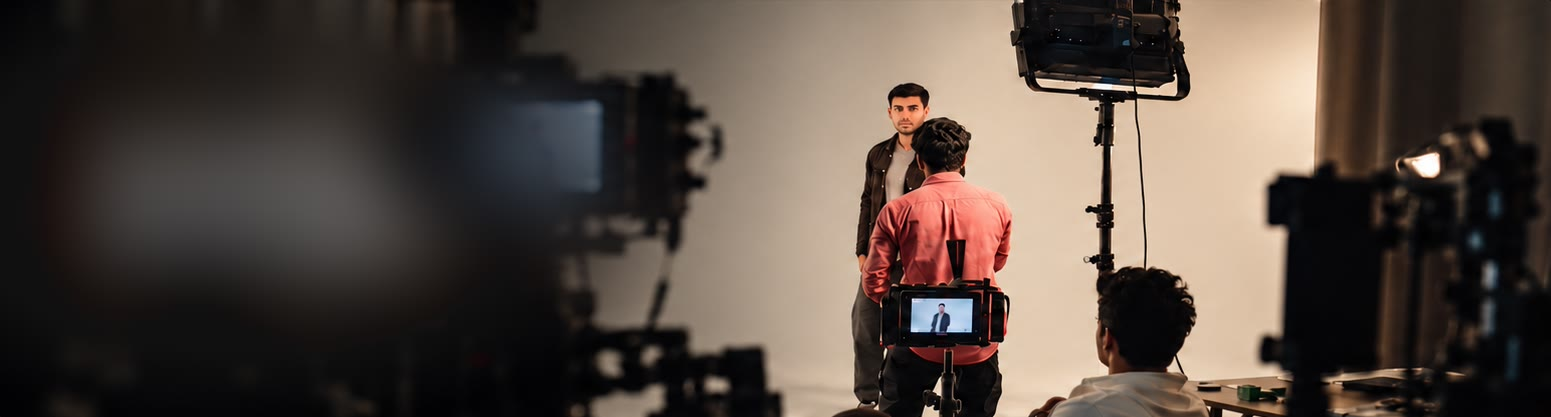
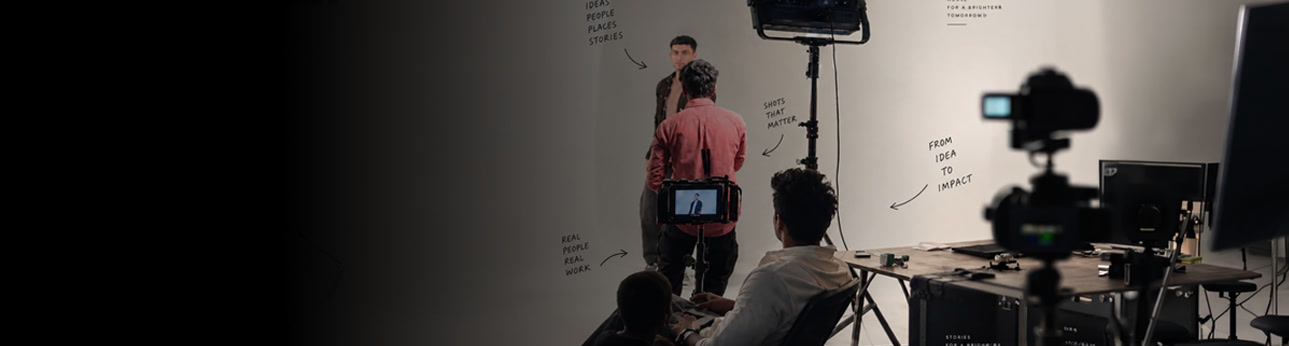
Title Case headings; new Thinkers Who Make band image
- Headings were forced to ALL CAPS by .display, .display-sm, .wwd-title
  and .phil-title. Per the owner (reference: "Work That Stays With
  You.") they are now Title Case: the CSS no longer uppercases them and
  every heading using those classes is rewritten in Title Case in the
  generator, including the nine the owner listed (Have a Thought Worth
  Shooting?, Thinkers and Makers. One Crew., Let's Create Something
  Great., From Thought to Screen., A Thought Goes In. A Film Comes Out.,
  Then We Make It Real., The Shoot Ends. The Story Doesn't., Want to
  Collaborate With Anava?, Great Ideas Start With a Conversation.) and
  the rest that share the classes, so none falls back to sentence case.
- Home Thinkers Who Make band uses the owner's new on-set image; the
  phone crop is re-centred on the crew.

Claude-Session: https://claude.ai/code/session_01NwsnSVpDJewf4WZxZrDcmy

diff --git a/about.html b/about.html
@@ -9,7 +9,7 @@
 <link rel="preconnect" href="https://fonts.googleapis.com">
 <link rel="preconnect" href="https://fonts.gstatic.com" crossorigin>
 <link href="https://fonts.googleapis.com/css2?family=Archivo:wght@500;600;700;800;900&family=Caveat:wght@500;600&family=Inter:wght@300;400;500;600;700&display=swap" rel="stylesheet">
-<link rel="stylesheet" href="assets/css/anava.css?v=87d3ab802a">
+<link rel="stylesheet" href="assets/css/anava.css?v=457bfa824a">
 <script defer src="assets/js/anava.js?v=cfe51f2200"></script>
 </head>
 <body>
@@ -30,7 +30,7 @@
     <div class="hero-split-grid">
       <div class="hero-copy reveal">
         <span class="eyebrow">About &middot; Identity &amp; Ethos</span>
-        <h1 class="display display-2line"><span>We are not just a</span><span class="o">production house.</span></h1>
+        <h1 class="display display-2line"><span>We Are Not Just a</span><span class="o">Production House.</span></h1>
         <p class="standfirst">A production house gets an idea and figures out how to make it.</p>
         <p class="lead">We like to get involved earlier &mdash; sometimes it's a complete brief, sometimes a problem, sometimes a product, and sometimes just a thought.</p>
       </div>
@@ -66,7 +66,7 @@
     <div class="sec-head">
       <div class="sec-label"><span class="sec-name">What We Do</span></div>
     </div>
-    <h2 class="display-sm oneline oneline-long">From idea to <span class="o">impact.</span></h2>
+    <h2 class="display-sm oneline oneline-long">From Idea to <span class="o">Impact.</span></h2>
     <p class="lead" style="margin-top:14px">End-to-end creative solutions that turn ideas into powerful visual stories &mdash; think, make and finish, all under one roof.</p>
   </div>
 </section>
@@ -104,7 +104,7 @@
   <div class="container">
     <div class="wwd-head reveal">
       <span class="eyebrow eyebrow-muted">02</span>
-      <h2 class="wwd-title">Then we <span class="o">make it real.</span></h2>
+      <h2 class="wwd-title">Then We <span class="o">Make It Real.</span></h2>
       <p class="lead">From pre-production to the final shot, we bring together the right people, technology and craft to turn ideas into powerful visual experiences.</p>
     </div>
     <div class="wwd-cards wwd-cards-4 reveal">
@@ -131,7 +131,7 @@
   <div class="container">
     <div class="wwd-head reveal">
       <span class="eyebrow eyebrow-muted">03</span>
-      <h2 class="wwd-title">The shoot ends.<br>The story <span class="o">doesn't.</span></h2>
+      <h2 class="wwd-title">The Shoot Ends.<br>The Story <span class="o">Doesn't.</span></h2>
       <p class="lead">Post is where everything comes together. We refine, enhance and elevate the film so it not only looks great, but feels right.</p>
     </div>
     <div class="wwd-grid">
@@ -167,7 +167,7 @@
     <div class="sec-head">
       <div class="sec-label"><span class="sec-name">Leadership</span></div>
     </div>
-    <h2 class="display-sm oneline oneline-long">The people behind <span class="o">Anava.</span></h2>
+    <h2 class="display-sm oneline oneline-long">The People Behind <span class="o">Anava.</span></h2>
     <p class="lead" style="margin-top:14px">Creative vision paired with structured production execution.</p>
     <div class="people reveal">
       <article class="person">
@@ -200,7 +200,7 @@
       <div class="cta-band-inner">
         <div>
           <span class="eyebrow">Let's create together</span>
-          <h2 class="display-sm">Want to collaborate<br>with <span class="o">Anava?</span></h2>
+          <h2 class="display-sm">Want to Collaborate<br>With <span class="o">Anava?</span></h2>
         </div>
         <div>
           <p class="lead">Give us a thought. We'll give you ideas to shoot.</p>

diff --git a/contact.html b/contact.html
@@ -9,7 +9,7 @@
 <link rel="preconnect" href="https://fonts.googleapis.com">
 <link rel="preconnect" href="https://fonts.gstatic.com" crossorigin>
 <link href="https://fonts.googleapis.com/css2?family=Archivo:wght@500;600;700;800;900&family=Caveat:wght@500;600&family=Inter:wght@300;400;500;600;700&display=swap" rel="stylesheet">
-<link rel="stylesheet" href="assets/css/anava.css?v=87d3ab802a">
+<link rel="stylesheet" href="assets/css/anava.css?v=457bfa824a">
 <script defer src="assets/js/anava.js?v=cfe51f2200"></script>
 </head>
 <body>
@@ -30,7 +30,7 @@
     <div class="hero-split-grid">
       <div class="hero-copy reveal">
         <span class="eyebrow">Contact</span>
-        <h1 class="display">Got a <span class="o">thought?</span></h1>
+        <h1 class="display">Got a <span class="o">Thought?</span></h1>
         <p class="lead">You don't need a finished brief. You don't need a script. You don't even need to know exactly what the film should look like. Just give us the thought — we'll bring the ideas.</p>
         <div class="hero-actions">
           <a href="#form" class="btn btn-light">Let's Make It <span class="circ"><svg width="1em" height="1em" viewBox="0 0 24 24" fill="none" stroke="currentColor" stroke-width="2.4" stroke-linecap="round" stroke-linejoin="round"><path d="M5 12h14M13 6l6 6-6 6"/></svg></span></a>
@@ -77,7 +77,7 @@
 
       <div class="reveal">
         <span class="eyebrow">Get in touch</span>
-        <h2 class="display-sm" style="margin:14px 0 4px">Let's <span class="o">connect.</span></h2>
+        <h2 class="display-sm" style="margin:14px 0 4px">Let's <span class="o">Connect.</span></h2>
         <div class="contact-rows">
           <div class="crow">
             <span class="crow-ic"><svg viewBox="0 0 24 24" fill="none" stroke="currentColor" stroke-width="1.8"><rect x="3" y="5" width="18" height="14" rx="2"/><path d="M3 7l9 6 9-6"/></svg></span>
@@ -102,7 +102,7 @@
   <div class="container">
     <div class="loc-head reveal">
       <span class="eyebrow">Visit us</span>
-      <h2 class="display-sm oneline">Our <span class="o">locations.</span></h2>
+      <h2 class="display-sm oneline">Our <span class="o">Locations.</span></h2>
       <p class="lead">Come say hello. We're in Mumbai and Delhi.</p>
     </div>
     <div class="loc-grid reveal">
@@ -133,7 +133,7 @@
       <div class="cta-band-inner">
         <div>
           <span class="eyebrow">Let's build together</span>
-          <h2 class="display-sm display-2line"><span>Great ideas start with</span><span>a <em class="o">conversation.</em></span></h2>
+          <h2 class="display-sm display-2line"><span>Great Ideas Start With</span><span>a <em class="o">Conversation.</em></span></h2>
         </div>
         <div>
           <p class="lead">Have a thought? Let's talk. We'll give you ideas to shoot.</p>

diff --git a/index.html b/index.html
@@ -9,7 +9,7 @@
 <link rel="preconnect" href="https://fonts.googleapis.com">
 <link rel="preconnect" href="https://fonts.gstatic.com" crossorigin>
 <link href="https://fonts.googleapis.com/css2?family=Archivo:wght@500;600;700;800;900&family=Caveat:wght@500;600&family=Inter:wght@300;400;500;600;700&display=swap" rel="stylesheet">
-<link rel="stylesheet" href="assets/css/anava.css?v=87d3ab802a">
+<link rel="stylesheet" href="assets/css/anava.css?v=457bfa824a">
 <script defer src="assets/js/anava.js?v=cfe51f2200"></script>
 </head>
 <body>
@@ -140,7 +140,7 @@
       <img src="assets/images/people-onset.jpg" alt="The Anava Films crew setting up a shot on location" loading="lazy">
       <div class="pb-copy">
         <p class="pb-eyebrow">The People Behind the Work</p>
-        <h2 class="pb-title">Thinkers and makers.<br><span class="o">One crew.</span></h2>
+        <h2 class="pb-title">Thinkers and Makers.<br><span class="o">One Crew.</span></h2>
         <p class="pb-text">The same team that shapes the idea is on set to shoot it.</p>
         <span class="pb-link">Meet the team <svg width="1em" height="1em" viewBox="0 0 24 24" fill="none" stroke="currentColor" stroke-width="2" stroke-linecap="round" stroke-linejoin="round"><path d="M7 17L17 7M9 7h8v8"/></svg></span>
       </div>
@@ -196,7 +196,7 @@
     <div class="cta-band compact home-cta reveal">
       <div class="cta-band-bg"><img src="assets/images/hero_studio_bg.jpg" alt="" loading="lazy"></div>
       <div class="cta-band-inner">
-        <h2 class="display-sm">Have a thought worth <span class="o">shooting?</span></h2>
+        <h2 class="display-sm">Have a Thought Worth <span class="o">Shooting?</span></h2>
         <a href="contact" class="btn btn-primary">Let's Talk <span class="circ"><svg width="1em" height="1em" viewBox="0 0 24 24" fill="none" stroke="currentColor" stroke-width="2.4" stroke-linecap="round" stroke-linejoin="round"><path d="M5 12h14M13 6l6 6-6 6"/></svg></span></a>
       </div>
     </div>

diff --git a/process.html b/process.html
@@ -9,7 +9,7 @@
 <link rel="preconnect" href="https://fonts.googleapis.com">
 <link rel="preconnect" href="https://fonts.gstatic.com" crossorigin>
 <link href="https://fonts.googleapis.com/css2?family=Archivo:wght@500;600;700;800;900&family=Caveat:wght@500;600&family=Inter:wght@300;400;500;600;700&display=swap" rel="stylesheet">
-<link rel="stylesheet" href="assets/css/anava.css?v=87d3ab802a">
+<link rel="stylesheet" href="assets/css/anava.css?v=457bfa824a">
 <script defer src="assets/js/anava.js?v=cfe51f2200"></script>
 </head>
 <body>
@@ -30,7 +30,7 @@
     <div class="hero-split-grid">
       <div class="hero-copy reveal">
         <span class="eyebrow">Our Process</span>
-        <h1 class="display">From thought<br>to <span class="o">screen.</span></h1>
+        <h1 class="display">From Thought<br>to <span class="o">Screen.</span></h1>
         <p class="lead">A clear, collaborative and creative process that takes you from a simple thought to a powerful final film.</p>
         <div class="hero-actions">
           <button class="play-btn" data-lightbox="assets/media/behind-the-scenes/BTS Think.mp4" data-caption="Our Process &middot; Anava Films"><svg width="1em" height="1em" viewBox="0 0 24 24" fill="currentColor"><path d="M8 5v14l11-7z"/></svg><span class="pb-label">Watch Our Process</span></button>
@@ -143,7 +143,7 @@
       <div class="cta-band-inner">
         <div>
           <span class="eyebrow">The Result</span>
-          <h2 class="display-sm">A thought goes in.<br>A film <span class="o">comes out.</span></h2>
+          <h2 class="display-sm">A Thought Goes In.<br>A Film <span class="o">Comes Out.</span></h2>
         </div>
         <div>
           <p class="lead">Whether it's a product, a problem or a simple thought, we take it all the way — from idea to execution, under one roof.</p>

diff --git a/assets/css/anava.css b/assets/css/anava.css
@@ -2160,7 +2160,7 @@ html.intro-on,html.intro-on body{overflow:hidden}
 @media (max-width:760px){
   .phil2-title{font-size:clamp(2.4rem,11.4vw,3.6rem)}
   .phil2-band{aspect-ratio:4/3;border-radius:14px}
-  .phil2-band img{object-position:62% 50%}
+  .phil2-band img{object-position:56% 50%}
   .phil2-band::after{background:linear-gradient(0deg,rgba(6,6,6,.78) 0%,rgba(6,6,6,.2) 42%,rgba(6,6,6,0) 60%)}
   .phil2-quote{top:auto;bottom:22px;left:20px;transform:none;padding-left:16px;border-left-width:3px;font-size:1.75rem}
   .phil2-copy{grid-template-columns:1fr;gap:16px}
@@ -2453,3 +2453,10 @@ button.reel{display:block;width:100%;padding:0;font:inherit;color:inherit;text-a
 }
 @media (min-width:1025px){.header-inner .nav{gap:52px}}
 @media (min-width:1600px){.header-inner .nav{gap:60px}}
+
+/* ==========================================================================
+   Headings in Title Case, not ALL CAPS (the owner's reference: "Work That
+   Stays With You."). The copy itself is written in Title Case in the
+   generator; these classes stop forcing uppercase and tighten a touch.
+   ========================================================================== */
+.display,.display-sm,.wwd-title,.phil-title{text-transform:none;letter-spacing:-.035em}

diff --git a/work.html b/work.html
@@ -9,7 +9,7 @@
 <link rel="preconnect" href="https://fonts.googleapis.com">
 <link rel="preconnect" href="https://fonts.gstatic.com" crossorigin>
 <link href="https://fonts.googleapis.com/css2?family=Archivo:wght@500;600;700;800;900&family=Caveat:wght@500;600&family=Inter:wght@300;400;500;600;700&display=swap" rel="stylesheet">
-<link rel="stylesheet" href="assets/css/anava.css?v=87d3ab802a">
+<link rel="stylesheet" href="assets/css/anava.css?v=457bfa824a">
 <script defer src="assets/js/anava.js?v=cfe51f2200"></script>
 </head>
 <body>
@@ -872,7 +872,7 @@
       <div class="cta-band-inner">
         <div>
           <span class="eyebrow">Have a project in mind?</span>
-          <h2 class="display-sm">Let's create<br><span class="o">something great.</span></h2>
+          <h2 class="display-sm">Let's Create<br><span class="o">Something Great.</span></h2>
         </div>
         <div>
           <p class="lead">Whether it's a thought, a product or a full brief, we're ready to turn it into something powerful.</p>

diff --git a/build_anava.py b/build_anava.py
@@ -363,7 +363,7 @@ def page_work():
       <div class="cta-band-inner">
         <div>
           <span class="eyebrow">Have a project in mind?</span>
-          <h2 class="display-sm">Let's create<br><span class="o">something great.</span></h2>
+          <h2 class="display-sm">Let's Create<br><span class="o">Something Great.</span></h2>
         </div>
         <div>
           <p class="lead">Whether it's a thought, a product or a full brief, we're ready to turn it into something powerful.</p>
@@ -536,7 +536,7 @@ def page_home():
       <img src="assets/images/people-onset.jpg" alt="The Anava Films crew setting up a shot on location" loading="lazy">
       <div class="pb-copy">
         <p class="pb-eyebrow">The People Behind the Work</p>
-        <h2 class="pb-title">Thinkers and makers.<br><span class="o">One crew.</span></h2>
+        <h2 class="pb-title">Thinkers and Makers.<br><span class="o">One Crew.</span></h2>
         <p class="pb-text">The same team that shapes the idea is on set to shoot it.</p>
         <span class="pb-link">Meet the team {DIAG}</span>
       </div>
@@ -592,7 +592,7 @@ def page_home():
     <div class="cta-band compact home-cta reveal">
       <div class="cta-band-bg"><img src="assets/images/hero_studio_bg.jpg" alt="" loading="lazy"></div>
       <div class="cta-band-inner">
-        <h2 class="display-sm">Have a thought worth <span class="o">shooting?</span></h2>
+        <h2 class="display-sm">Have a Thought Worth <span class="o">Shooting?</span></h2>
         <a href="contact.html" class="btn btn-primary">Let's Talk <span class="circ">{ARROW}</span></a>
       </div>
     </div>
@@ -660,7 +660,7 @@ def page_process():
     <div class="hero-split-grid">
       <div class="hero-copy reveal">
         <span class="eyebrow">Our Process</span>
-        <h1 class="display">From thought<br>to <span class="o">screen.</span></h1>
+        <h1 class="display">From Thought<br>to <span class="o">Screen.</span></h1>
         <p class="lead">A clear, collaborative and creative process that takes you from a simple thought to a powerful final film.</p>
         <div class="hero-actions">
           <button class="play-btn" data-lightbox="assets/media/behind-the-scenes/BTS Think.mp4" data-caption="Our Process &middot; Anava Films">{PLAY}<span class="pb-label">Watch Our Process</span></button>
@@ -689,7 +689,7 @@ def page_process():
       <div class="cta-band-inner">
         <div>
           <span class="eyebrow">The Result</span>
-          <h2 class="display-sm">A thought goes in.<br>A film <span class="o">comes out.</span></h2>
+          <h2 class="display-sm">A Thought Goes In.<br>A Film <span class="o">Comes Out.</span></h2>
         </div>
         <div>
           <p class="lead">Whether it's a product, a problem or a simple thought, we take it all the way — from idea to execution, under one roof.</p>
@@ -768,7 +768,7 @@ def wwd_sections():
     <div class="sec-head">
       <div class="sec-label"><span class="sec-name">What We Do</span></div>
     </div>
-    <h2 class="display-sm oneline oneline-long">From idea to <span class="o">impact.</span></h2>
+    <h2 class="display-sm oneline oneline-long">From Idea to <span class="o">Impact.</span></h2>
     <p class="lead" style="margin-top:14px">End-to-end creative solutions that turn ideas into powerful visual stories &mdash; think, make and finish, all under one roof.</p>
   </div>
 </section>
@@ -790,7 +790,7 @@ def wwd_sections():
   <div class="container">
     <div class="wwd-head reveal">
       <span class="eyebrow eyebrow-muted">02</span>
-      <h2 class="wwd-title">Then we <span class="o">make it real.</span></h2>
+      <h2 class="wwd-title">Then We <span class="o">Make It Real.</span></h2>
       <p class="lead">From pre-production to the final shot, we bring together the right people, technology and craft to turn ideas into powerful visual experiences.</p>
     </div>
     <div class="wwd-cards wwd-cards-4 reveal">{svc_cards(make)}</div>
@@ -801,7 +801,7 @@ def wwd_sections():
   <div class="container">
     <div class="wwd-head reveal">
       <span class="eyebrow eyebrow-muted">03</span>
-      <h2 class="wwd-title">The shoot ends.<br>The story <span class="o">doesn't.</span></h2>
+      <h2 class="wwd-title">The Shoot Ends.<br>The Story <span class="o">Doesn't.</span></h2>
       <p class="lead">Post is where everything comes together. We refine, enhance and elevate the film so it not only looks great, but feels right.</p>
     </div>
     <div class="wwd-grid">
@@ -828,7 +828,7 @@ def page_contact():
     <div class="hero-split-grid">
       <div class="hero-copy reveal">
         <span class="eyebrow">Contact</span>
-        <h1 class="display">Got a <span class="o">thought?</span></h1>
+        <h1 class="display">Got a <span class="o">Thought?</span></h1>
         <p class="lead">You don't need a finished brief. You don't need a script. You don't even need to know exactly what the film should look like. Just give us the thought — we'll bring the ideas.</p>
         <div class="hero-actions">
           <a href="#form" class="btn btn-light">Let's Make It <span class="circ">{ARROW}</span></a>
@@ -875,7 +875,7 @@ def page_contact():
 
       <div class="reveal">
         <span class="eyebrow">Get in touch</span>
-        <h2 class="display-sm" style="margin:14px 0 4px">Let's <span class="o">connect.</span></h2>
+        <h2 class="display-sm" style="margin:14px 0 4px">Let's <span class="o">Connect.</span></h2>
         <div class="contact-rows">
           <div class="crow">
             <span class="crow-ic"><svg viewBox="0 0 24 24" fill="none" stroke="currentColor" stroke-width="1.8"><rect x="3" y="5" width="18" height="14" rx="2"/><path d="M3 7l9 6 9-6"/></svg></span>
@@ -900,7 +900,7 @@ def page_contact():
   <div class="container">
     <div class="loc-head reveal">
       <span class="eyebrow">Visit us</span>
-      <h2 class="display-sm oneline">Our <span class="o">locations.</span></h2>
+      <h2 class="display-sm oneline">Our <span class="o">Locations.</span></h2>
       <p class="lead">Come say hello. We're in Mumbai and Delhi.</p>
     </div>
     <div class="loc-grid reveal">
@@ -931,7 +931,7 @@ def page_contact():
       <div class="cta-band-inner">
         <div>
           <span class="eyebrow">Let's build together</span>
-          <h2 class="display-sm display-2line"><span>Great ideas start with</span><span>a <em class="o">conversation.</em></span></h2>
+          <h2 class="display-sm display-2line"><span>Great Ideas Start With</span><span>a <em class="o">Conversation.</em></span></h2>
         </div>
         <div>
           <p class="lead">Have a thought? Let's talk. We'll give you ideas to shoot.</p>
@@ -966,7 +966,7 @@ def page_about():
     <div class="hero-split-grid">
       <div class="hero-copy reveal">
         <span class="eyebrow">About &middot; Identity &amp; Ethos</span>
-        <h1 class="display display-2line"><span>We are not just a</span><span class="o">production house.</span></h1>
+        <h1 class="display display-2line"><span>We Are Not Just a</span><span class="o">Production House.</span></h1>
         <p class="standfirst">A production house gets an idea and figures out how to make it.</p>
         <p class="lead">We like to get involved earlier &mdash; sometimes it's a complete brief, sometimes a problem, sometimes a product, and sometimes just a thought.</p>
       </div>
@@ -1002,7 +1002,7 @@ def page_about():
     <div class="sec-head">
       <div class="sec-label"><span class="sec-name">Leadership</span></div>
     </div>
-    <h2 class="display-sm oneline oneline-long">The people behind <span class="o">Anava.</span></h2>
+    <h2 class="display-sm oneline oneline-long">The People Behind <span class="o">Anava.</span></h2>
     <p class="lead" style="margin-top:14px">Creative vision paired with structured production execution.</p>
     <div class="people reveal">
       <article class="person">
@@ -1035,7 +1035,7 @@ def page_about():
       <div class="cta-band-inner">
         <div>
           <span class="eyebrow">Let's create together</span>
-          <h2 class="display-sm">Want to collaborate<br>with <span class="o">Anava?</span></h2>
+          <h2 class="display-sm">Want to Collaborate<br>With <span class="o">Anava?</span></h2>
         </div>
         <div>
           <p class="lead">Give us a thought. We'll give you ideas to shoot.</p>
